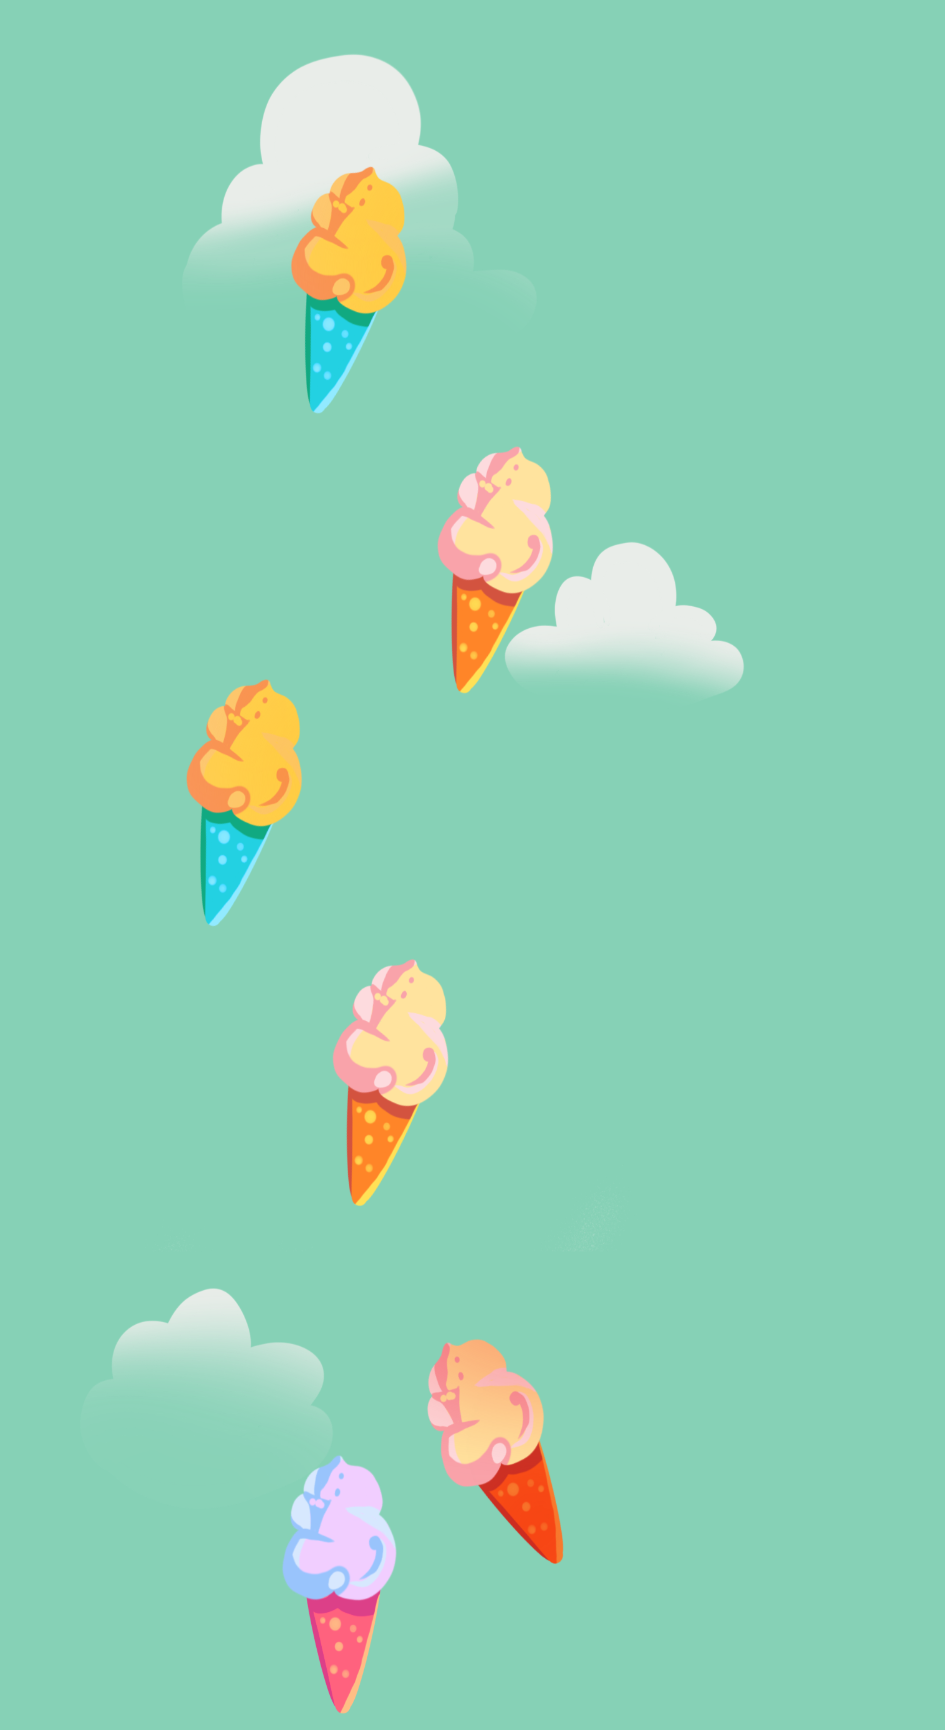
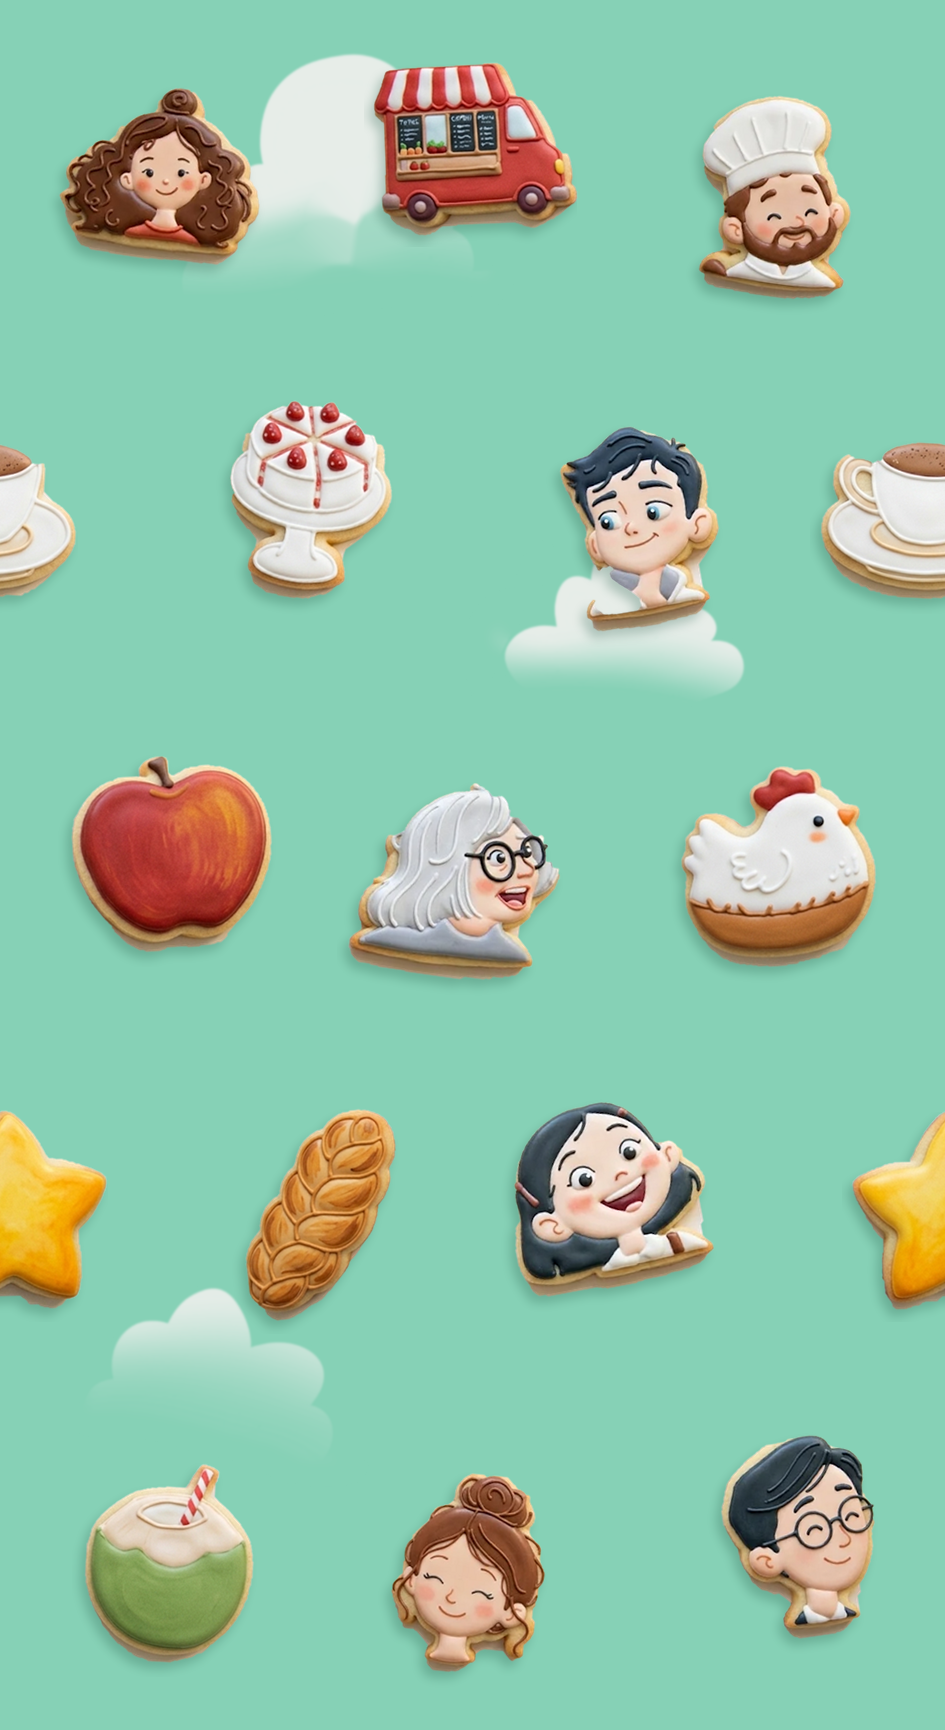
Start menu: iced cookies of the seven customers and eight game items scroll by instead of the ice cream cones; report: the capture and the China answer
The owner picked Gemini's cookies for the start menu's scrolling background (IMG_0452.png, same size, same mint ground
and clouds). Built by Store/cookies_2026-11-17/menu_tile.py from Gemini's two sheets.

diff --git a/Docs/tools/report_page/index.html b/Docs/tools/report_page/index.html
@@ -76,13 +76,30 @@ h3 small{font-weight:600;color:var(--soft);font-size:13px;margin-left:6px}
 <div class="who p1"><h3>You</h3>
 <p><b>Say "build"</b> for a new test build: cake frames, blender back in place, the new table shadows, your coffee bag glow.</p>
 <p><b>Cake</b> (Current): your three fixes are in (layers, frame 2, the corner shade). Tick: good, or still ask ChatGPT tomorrow.</p>
-<p><b>Customer cookies</b> (Current): two drafts, Gemini's and mine. Tick a look, and tell me where the cookies go in the game.</p>
+<p><b>Start menu cookies</b> (Current): in the game, with a capture. Tick: ship, fewer, bigger, or other items.</p>
+<p><b>China</b> (Q&amp;A): the answer and four choices.</p>
 <p><b>Kitchen</b> (Current): tick how the arrangement feels.</p>
 <p><b>App Store page</b> (Q&amp;A): one list of ten now; tick what to do.</p><p><b>iCloud</b> ("FoodTruckCafe art"), the blender: 5 stills as the game shows it (blender_frame_1_rest, 2_vanilla, 3_strawberry, 4_chocolate, 5_mint), the 4 layers the game uses (blender, blender_blade, blender_fill, blender_swirl), and blender_redraw_body with blender_redraw_glow for your redraw.</p></div>
-<div class="who p2"><h3>Me</h3><p><b>Version numbers</b> (your tick): from the next version on, the version is the day we submit and builds start at 1.</p><p><b>26.11.22</b> is in Apple's review since 15 November; I looked in App Store Connect, Apple has sent no message. Nothing to do but wait.</p><p><b>ChatGPT</b>, after 18 November 20:21: the customer cookies, and the cake retouch if you tick it.</p></div>
+<div class="who p2"><h3>Me</h3><p><b>Version numbers</b> (your tick): from the next version on, the version is the day we submit and builds start at 1.</p><p><b>26.11.22</b> is in Apple's review since 15 November; I looked in App Store Connect, Apple has sent no message. Nothing to do but wait.</p><p><b>ChatGPT</b>, after 18 November 20:21: the cake retouch, only if you tick it.</p></div>
 </div>
 
 <h2 id="qa"><span class="n">2</span>Q&amp;A</h2>
+<div class="q"><h3>Can we release a version just for China that does not break its rules? (17 November)</h3>
+<p style="margin:6px 0"><b>Short answer:</b> Apple allows one build per app for all countries, so not a separate build. But most of this needs no new build at all.</p>
+<ol>
+<li><b>The two "Missing Info" banners are only questions.</b> Security Assessment asks whether the app has encrypted messaging or hands out AI-made content. AI Generated Content asks whether the app offers AI services (chatbots, picture or voice generation). Our game does neither, so both answers are No. I opened both forms and saved nothing; they are your declarations.</li>
+<li><b>The real rule is about purchases.</b> Apple: a paid game, or a game with in-app purchases, needs a Chinese government approval number, which takes a Chinese business licence. Since Remove Ads and 15 Stars, Apple marks our China listing "missing game registration number".</li>
+<li><b>The way round, same build:</b> each purchase has its own list of countries. Switch both purchases off for China mainland, and the game there is free with ads only. I would also hide the two buy buttons where the store offers nothing. I cannot promise Apple then clears its mark; Chinese law strictly wants approval for every game, Apple enforces it for paid ones.</li>
+<li><b>ICP filing number:</b> Apple asks it of "some apps" and only offers a field for it. It also needs a Chinese entity. Nothing to do unless Apple asks.</li>
+</ol>
+<p style="margin:6px 0">China today: the game is on the store there, both purchases too. Deadline on the banners: 31 January 2027.</p>
+<ul class="checks">
+<li><label><input type="checkbox" data-id="qa.china2.no"> Answer No to both banners for me</label></li>
+<li><label><input type="checkbox" data-id="qa.china2.iapoff"> Switch both purchases off in China and hide the buttons there</label></li>
+<li><label><input type="checkbox" data-id="qa.china2.leave"> Take the game off the China store</label></li>
+<li><label><input type="checkbox" data-id="qa.china2.later"> Later</label></li>
+</ul>
+</div>
 <div class="q"><h3>App Store page: what we can improve, without marketing (15 and 16 November)</h3>
 <p style="margin:6px 0"><b>Today:</b> name "Food Truck Cafe", subtitle "Bake, serve &amp; grow your cafe", English only, 0 written reviews, 6 of 10 screenshots, one video. Apple ranks search by name, subtitle, keywords and category, and by downloads and ratings. The description does not count for search.</p>
 
@@ -147,19 +164,18 @@ h3 small{font-weight:600;color:var(--soft);font-size:13px;margin-left:6px}
 </div>
 
 <div class="card">
-<p style="margin-top:0"><b>Customer cookies: two drafts, 17 November.</b> Iced biscuits with our seven customers' heads. Drafts only, nothing in the game.</p>
-<figure><img src="cookies_gemini.jpg" alt="Seven iced biscuits by Gemini, each the head of a customer: girl, boy, kid, grandma, chef, yoga, businessman, piped icing on golden biscuits"><figcaption>Gemini, from a sheet of our customers' heads. It looks like a photo of real cookies.</figcaption></figure>
-<p style="margin:6px 0"></p>
-<figure><img src="cookies_mine.jpg" alt="Seven biscuits painted by Claude: each customer's own painted head as flat icing on a golden biscuit cut round the head"><figcaption>Mine: each customer's own painted head as the icing, on a biscuit cut round it.</figcaption></figure>
+<p style="margin-top:0"><b>Start menu: cookies instead of the ice creams, 17 November.</b> In the project, in no build.</p>
+<figure><img src="menu_cookies.jpg" alt="Two captures of the start menu: the mint background now scrolls with iced cookies of the seven customers and eight game items instead of ice cream cones; right, the same behind the Daily Treats board"><figcaption>The start menu in the game. Right: behind the Daily Treats board.</figcaption></figure>
 <ul>
-<li><b>ChatGPT</b> draws its version after 18 November, 20:21 (out of pictures today).</li>
-<li>The cookies that gave you the idea: <a href="https://slaythespire.wiki.gg/wiki/Slay_the_Spire_2:Yummy_Cookie#Gallery" target="_blank" rel="noopener">Slay the Spire 2, Yummy Cookie</a> (a relic from the Ancient Tezcatara, not a boss). I cannot copy another studio's art into this page.</li>
+<li><b>Gemini's look</b>, as you picked. Seven customers, and eight things from the game that I picked: the truck, the strawberry cake, the coffee cup, the apple, the braided bread, the hen, the coconut, the star.</li>
+<li>Same mint ground and clouds, same slow scroll. Fifteen cookies per picture; the ice creams were six.</li>
 </ul>
+<figure><img src="cookies_items.jpg" style="max-height:340px" alt="Eight iced cookies by Gemini: food truck, strawberry cake on a stand, coffee cup, apple, braided bread, hen, coconut drink, star"><figcaption>The eight game cookies, as Gemini drew them.</figcaption></figure>
 <ul class="checks">
-<li><label><input type="checkbox" data-id="cur.hcookie.gemini"> Gemini's look</label></li>
-<li><label><input type="checkbox" data-id="cur.hcookie.mine"> Claude's look</label></li>
-<li><label><input type="checkbox" data-id="cur.hcookie.gpt"> Wait for ChatGPT's</label></li>
-<li><label><input type="checkbox" data-id="cur.hcookie.paint"> I will paint them myself; send the outlines to iCloud</label></li>
+<li><label><input type="checkbox" data-id="cur.mcookie.ship"> Good to ship</label></li>
+<li><label><input type="checkbox" data-id="cur.mcookie.fewer"> Fewer cookies, as sparse as the ice creams</label></li>
+<li><label><input type="checkbox" data-id="cur.mcookie.bigger"> Bigger cookies</label></li>
+<li><label><input type="checkbox" data-id="cur.mcookie.items"> Other game items (I will say which)</label></li>
 </ul>
 </div>
 
